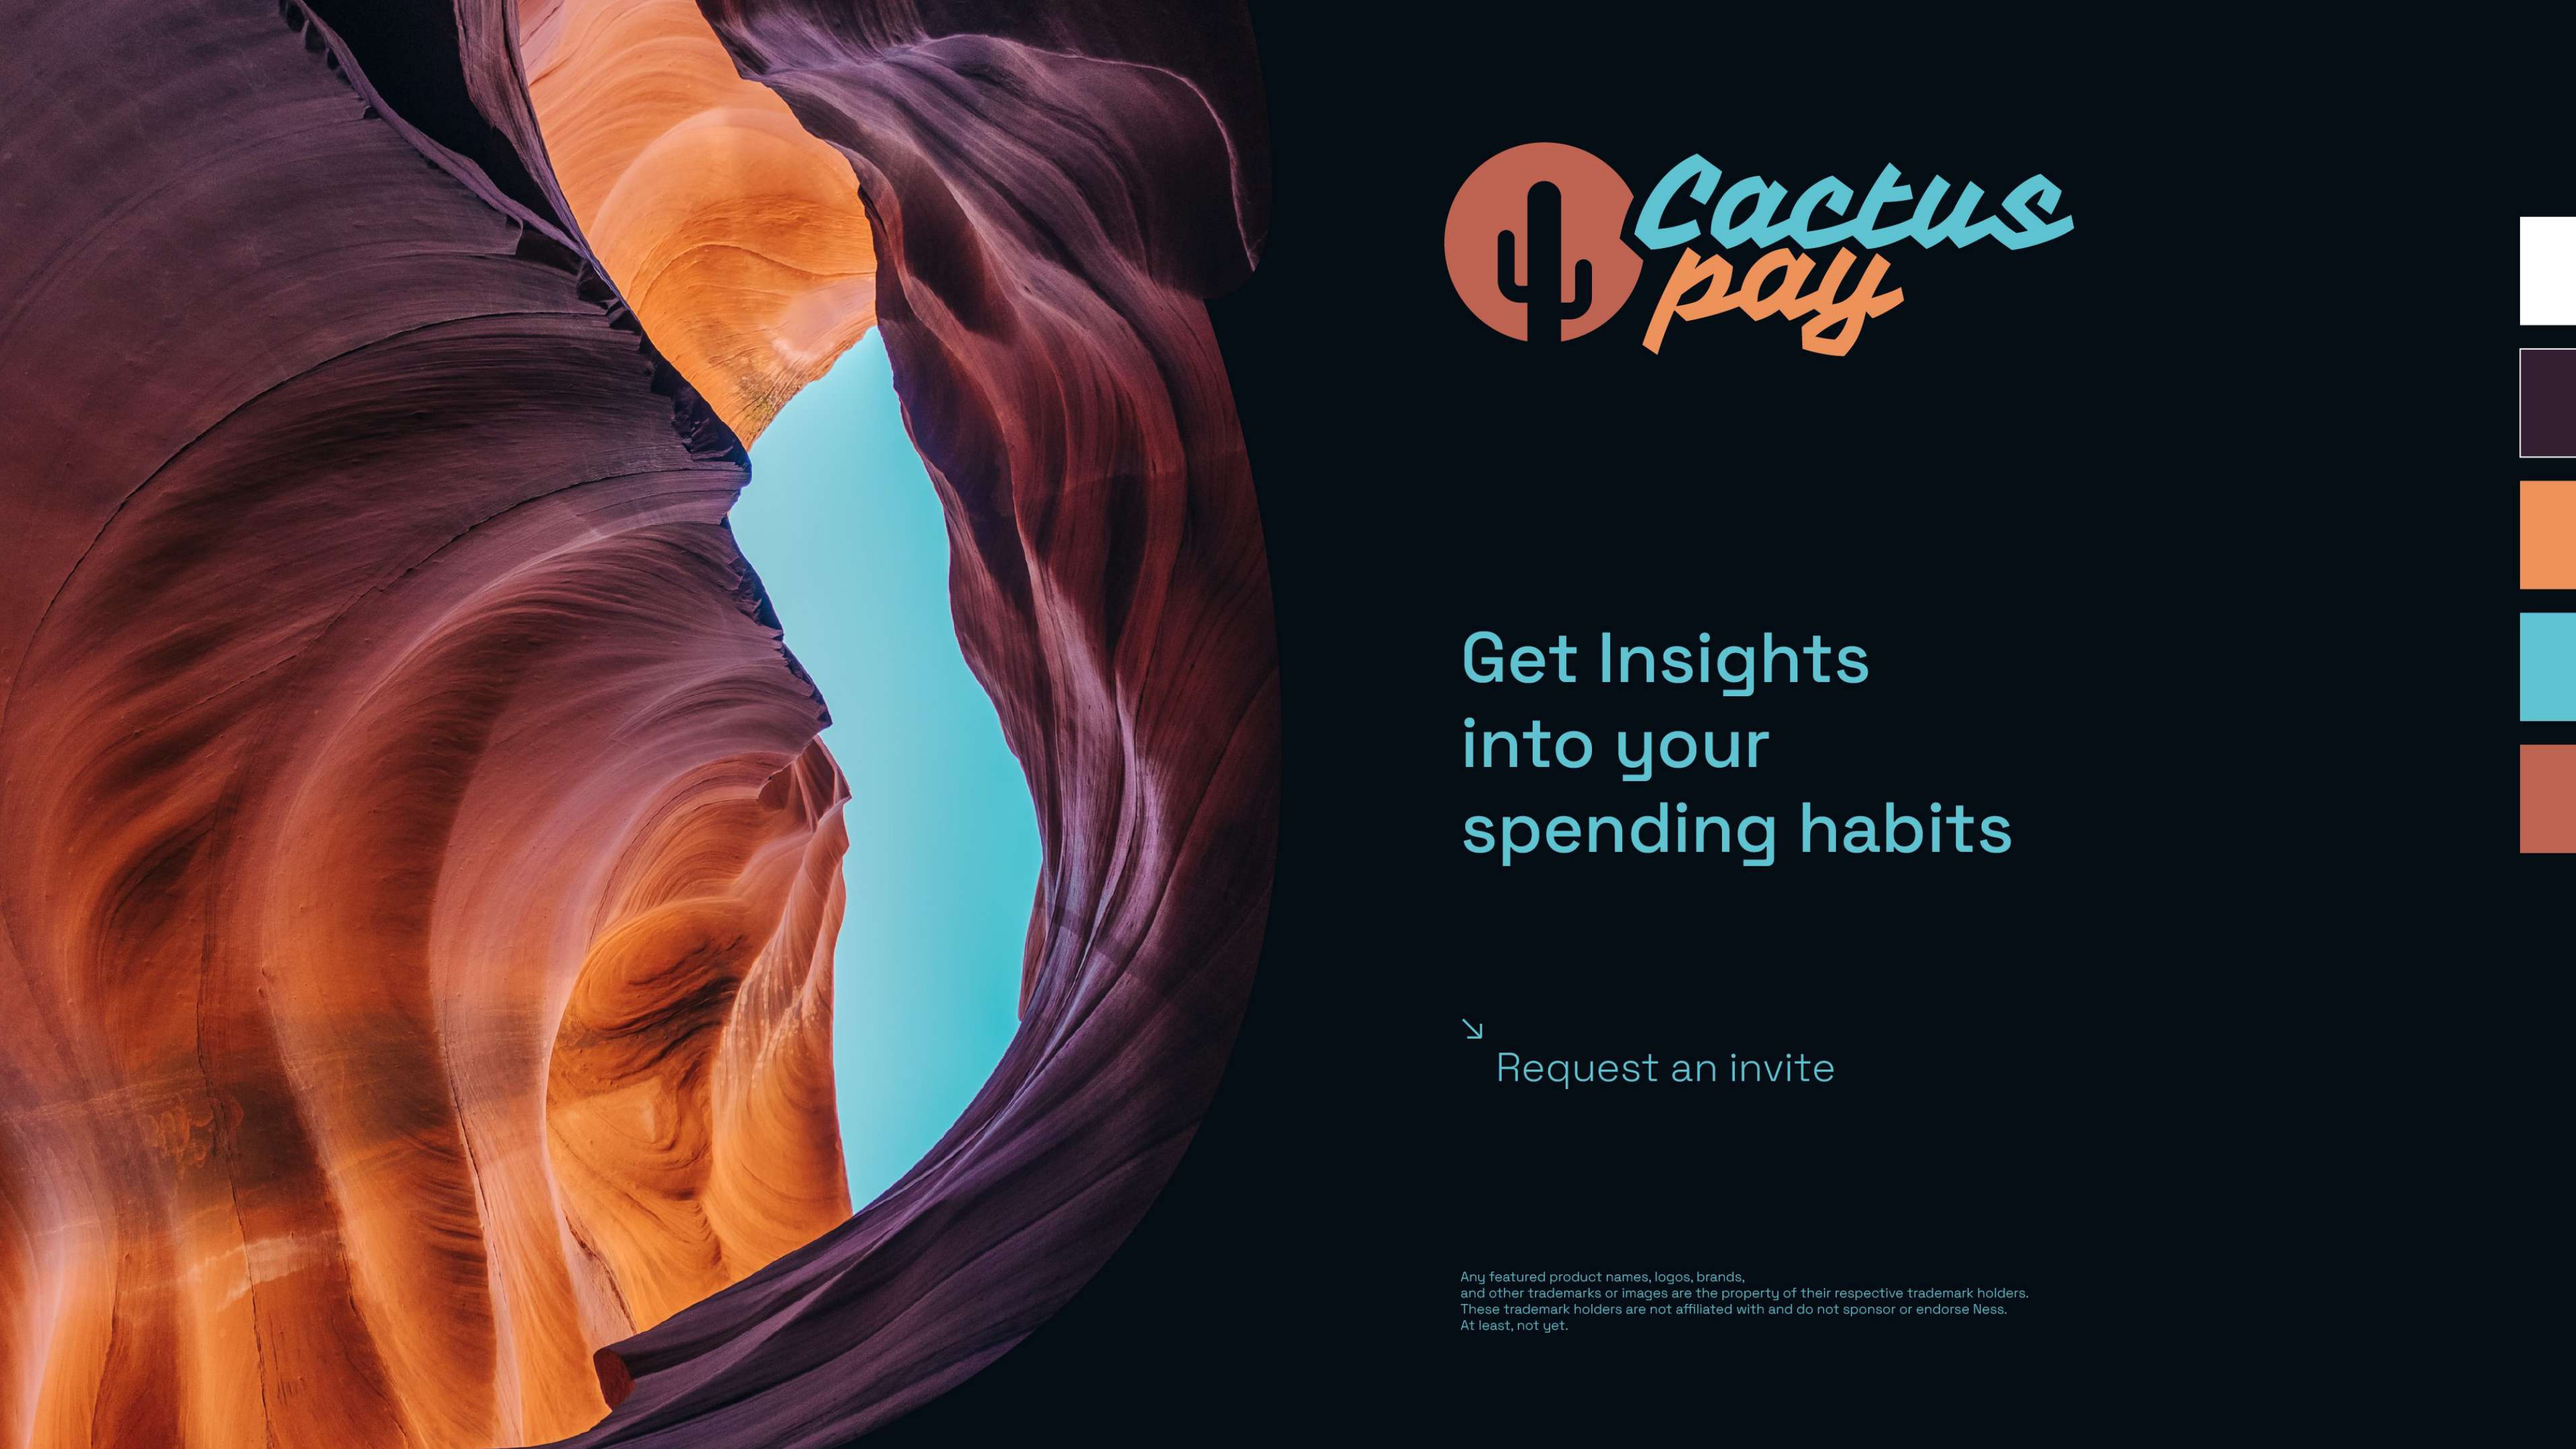
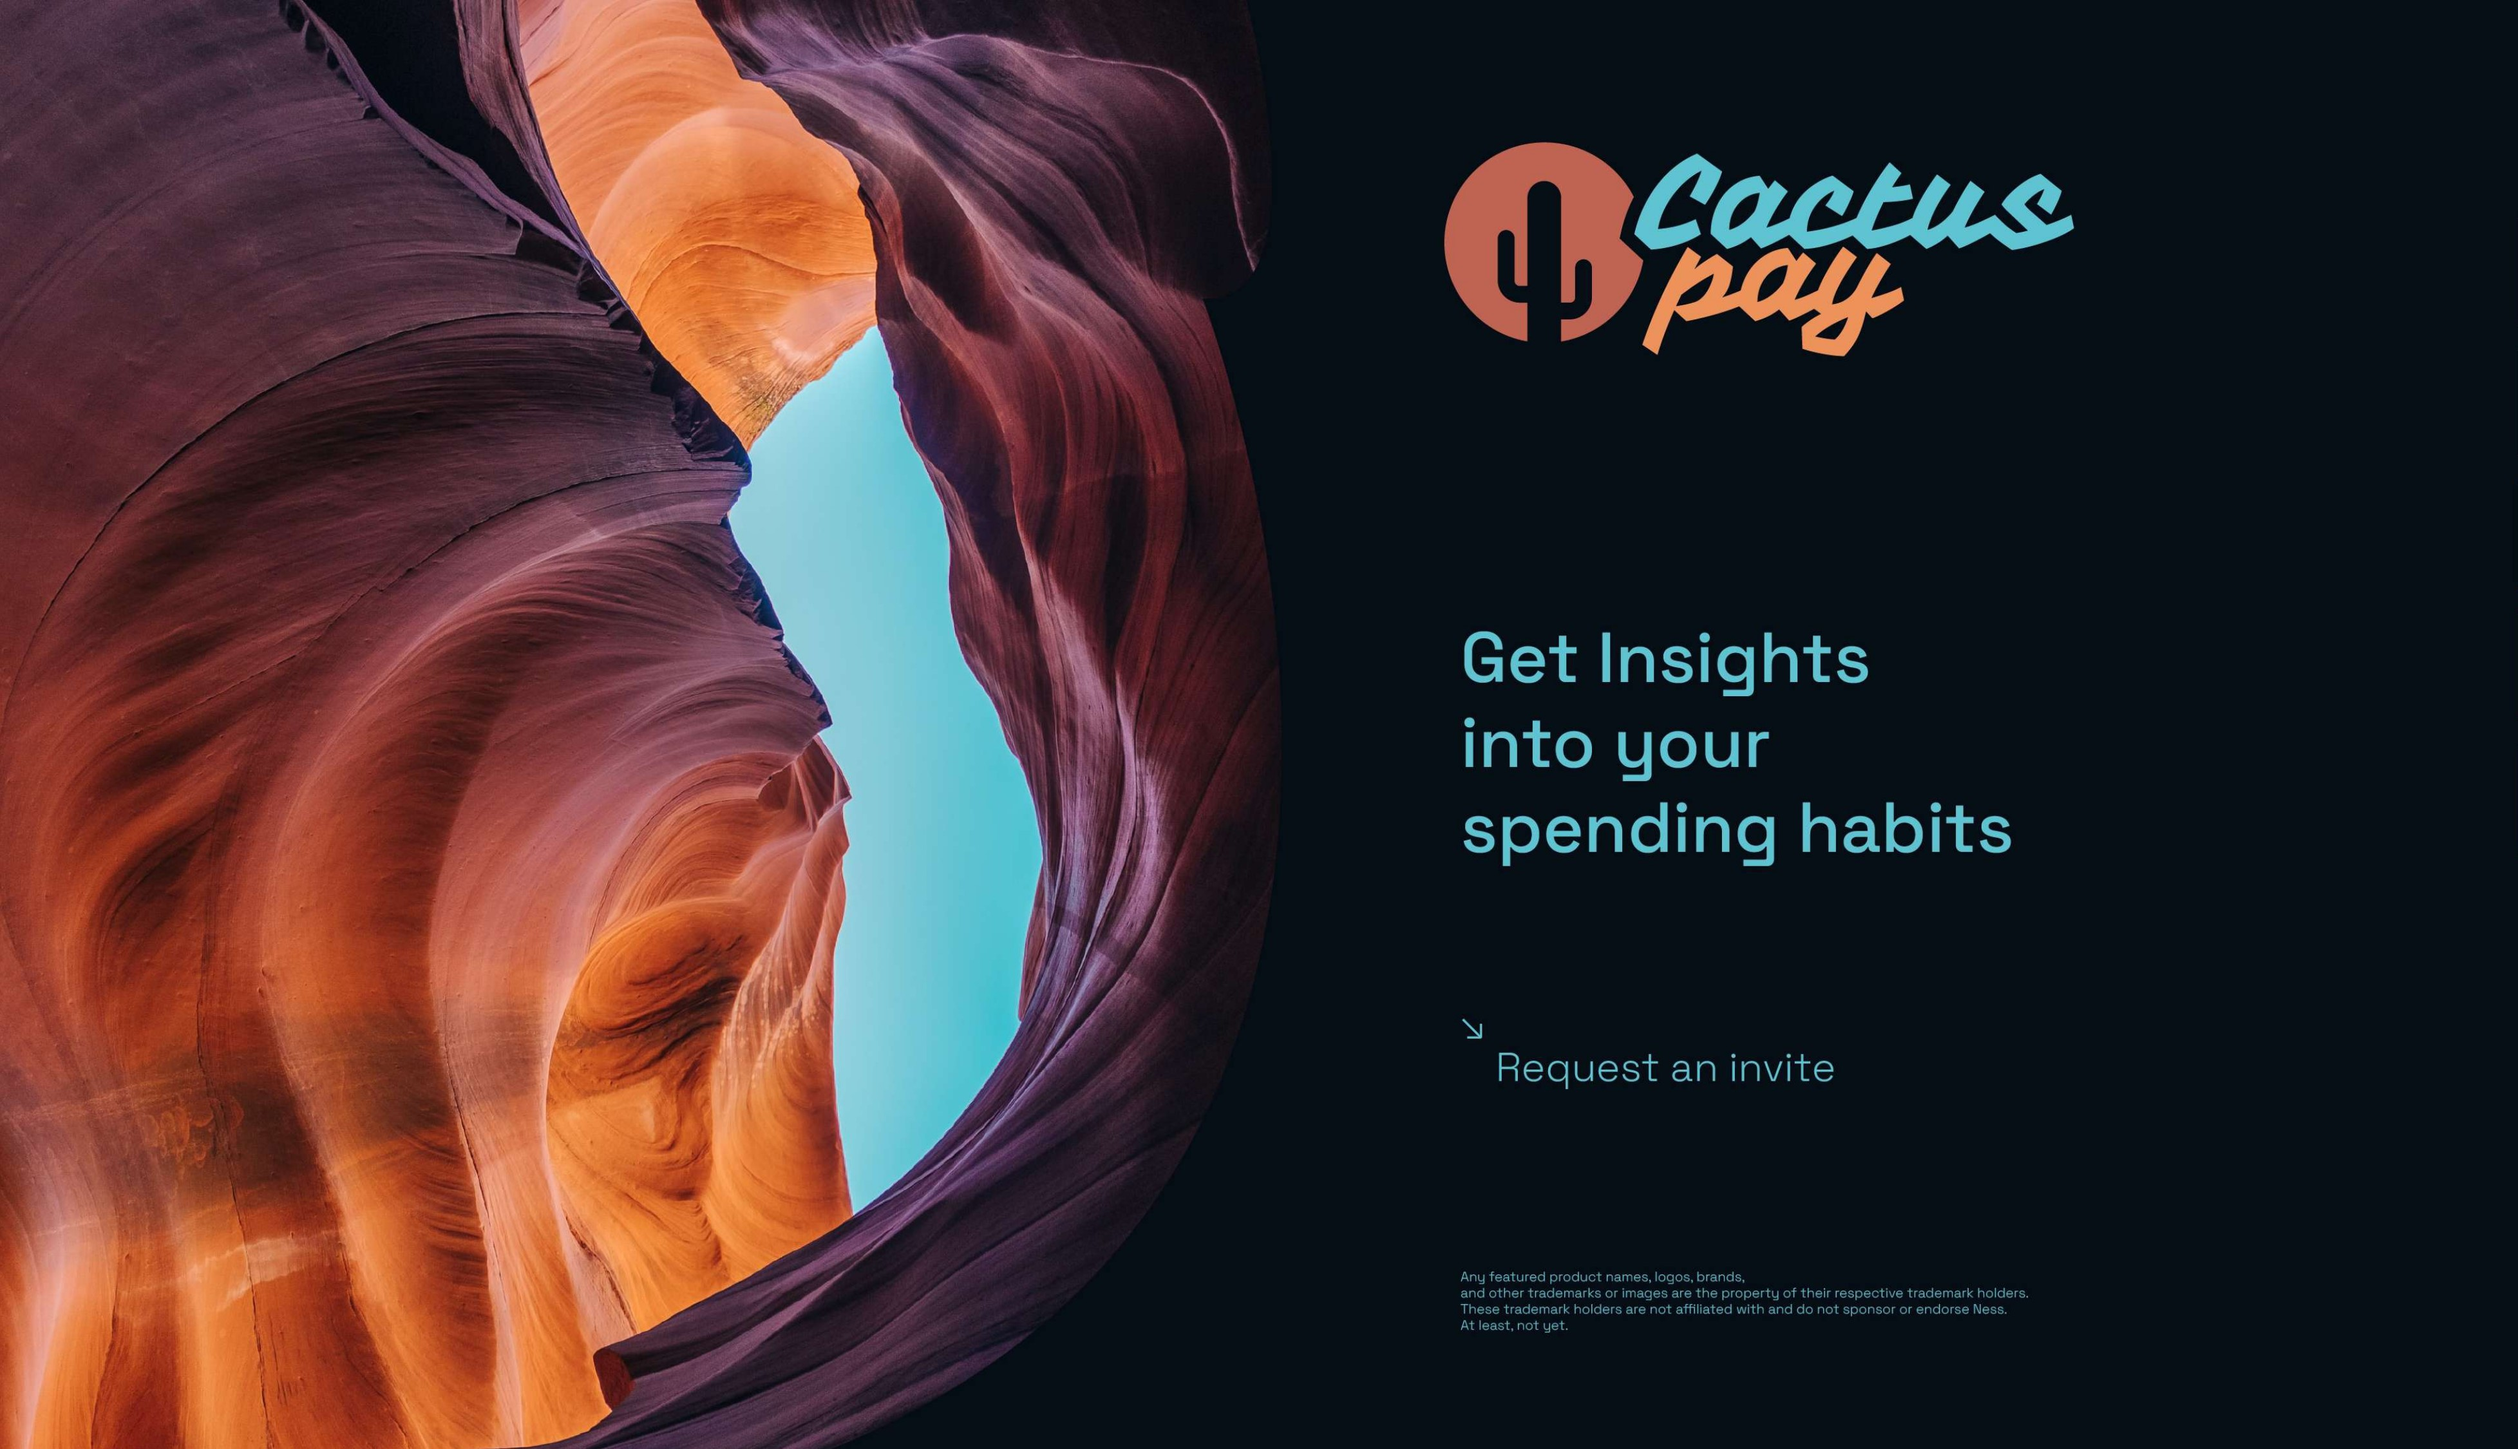
Go the image to fit, now I need to figure out the rest...

diff --git a/index.html b/index.html
@@ -6,20 +6,16 @@
             margin: 0;
             padding: 0;
         }
-        .imgbox {
+        .center-fit {
             display: grid;
             height: 100%;
-            object-fit: contain;
-        }
-        .center-fit {
-            max-width: 100%;
-            max-height: 100vh;
-            margin: auto;
+            width: 100%;
+            object-fit: cover;
         }
     </style>
 </head>
 <body>
-<div class="imgbox">
+<div>
     <img class="center-fit" src='back_cac2s.jpg'>
 </div>
 </body>
